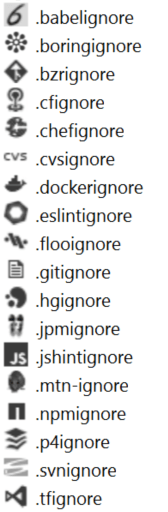
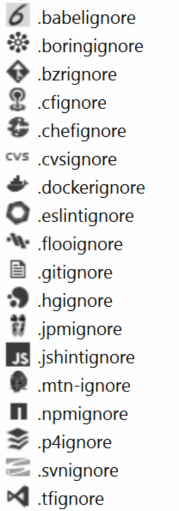
Added support for .vscodeignore

Changed region(s): [[0.2083, 0.0, 0.8631, 0.998], [0.0, 0.2935, 0.1786, 0.998], [0.0, 0.0, 0.1488, 0.2642]]

diff --git a/src/IgnorePackage.cs b/src/IgnorePackage.cs
@@ -7,7 +7,7 @@ using Microsoft.VisualStudio.Shell.Interop;
 
 namespace IgnoreFiles
 {
-    [PackageRegistration(UseManagedResourcesOnly = true)]
+    [PackageRegistration(UseManagedResourcesOnly = true, AllowsBackgroundLoading = true)]
     [InstalledProductRegistration("#110", "#112", Vsix.Version, IconResourceID = 400)]
     [ProvideMenuResource("Menus.ctmenu", 1)]
     [ProvideOptionPage(typeof(Options), "Text Editor\\.ignore", "General", 101, 111, true, new[] { ".gitignore", ".tfignore" }, ProvidesLocalizedCategoryName = false)]

diff --git a/src/ContentType/IgnoreContentTypeDefinition.cs b/src/ContentType/IgnoreContentTypeDefinition.cs
@@ -101,5 +101,10 @@ namespace IgnoreFiles
         [ContentType(IgnoreContentType)]
         [FileExtension(".svnignore")]
         public FileExtensionToContentTypeDefinition SvnFileExtension { get; set; }
+
+        [Export(typeof(FileExtensionToContentTypeDefinition))]
+        [ContentType(IgnoreContentType)]
+        [FileExtension(".vscodeignore")]
+        public FileExtensionToContentTypeDefinition VsCodeFileExtension { get; set; }
     }
 }

diff --git a/README.md b/README.md
@@ -27,6 +27,7 @@ This extension supports:
 - `.p4ignore` (Perforce)
 - `.svnignore` (SVN)
 - `.tfignore` (Team Foundation)
+- `.vscodeignore` (VSCode)
 
 See the [changelog](CHANGELOG.md) for changes and roadmap.
 
